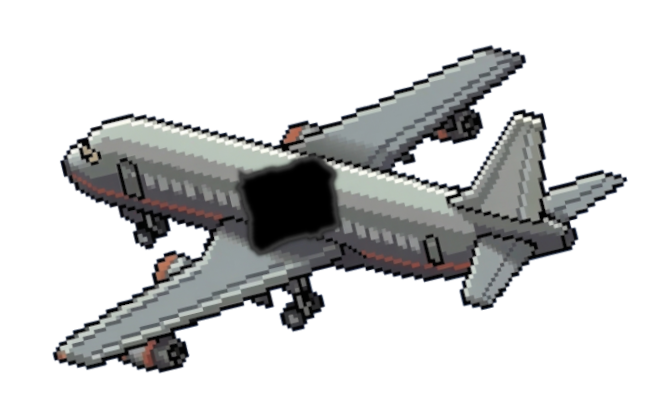
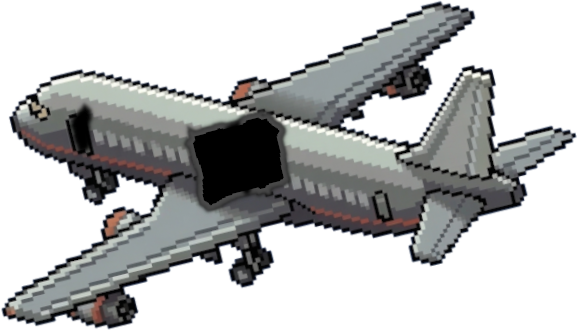
tweaked fuselage rescue gameplay

diff --git a/src/choplifter/mission_projectiles.py b/src/choplifter/mission_projectiles.py
@@ -289,6 +289,18 @@ def _record_airport_elevated_terminal_impact(*, mission: MissionState, compound:
     mission.airport_terminal_impact_sparks = events
 
 
+def _is_airport_elevated_terminal_compound(*, mission: MissionState, compound: object) -> bool:
+    mission_id = str(getattr(mission, "mission_id", "")).lower()
+    if mission_id not in ("airport", "airport_special_ops"):
+        return False
+    compounds = list(getattr(mission, "compounds", []) or [])
+    if not compounds:
+        return False
+    elevated_y = min(float(getattr(c.pos, "y", 0.0)) for c in compounds if getattr(c, "pos", None) is not None)
+    compound_y = float(getattr(getattr(compound, "pos", None), "y", 0.0))
+    return abs(compound_y - elevated_y) <= 1.0
+
+
 def _hits_circle_or_swept(*, previous: Vec2, current: Vec2, center: Vec2, radius: float) -> bool:
     """Return True when either endpoint or the movement segment intersects the circle."""
     if _hits_circle(current, center, radius=radius) or _hits_circle(previous, center, radius=radius):
@@ -920,18 +932,42 @@ def _update_projectiles(
 
         # Compound collision (player projectiles only).
         for c in mission.compounds:
-            if c.health <= 0:
+            is_airport_elevated = _is_airport_elevated_terminal_compound(mission=mission, compound=c)
+            if c.health <= 0 and not is_airport_elevated:
                 continue
             if c.contains_point(p.pos):
-                if p.kind is ProjectileKind.BULLET:
-                    c.health -= 12.0
-                elif p.kind is ProjectileKind.BOMB:
-                    c.health -= 40.0
+                did_damage_structure = False
+                is_fuselage = hasattr(mission, "airport_fuselage_compound_id") and getattr(c, "compound_id", None) == getattr(mission, "airport_fuselage_compound_id", None)
+                damage_amt = 0.0
+                if c.health > 0:
+                    if p.kind is ProjectileKind.BULLET:
+                        c.health -= 12.0
+                        damage_amt = 12.0
+                        did_damage_structure = True
+                    elif p.kind is ProjectileKind.BOMB:
+                        c.health -= 40.0
+                        damage_amt = 40.0
+                        did_damage_structure = True
+                    else:
+                        continue
                 else:
-                    continue
-                _record_airport_elevated_terminal_impact(mission=mission, compound=c, projectile=p)
-                _apply_airport_elevated_passenger_hit(mission=mission, compound=c, projectile=p)
-                _log_compound_health_if_needed(c, logger, reason="hit")
+                    if p.kind not in (ProjectileKind.BULLET, ProjectileKind.BOMB):
+                        continue
+                    # If already zero, still count damage for fuselage
+                    if p.kind is ProjectileKind.BULLET:
+                        damage_amt = 12.0
+                    elif p.kind is ProjectileKind.BOMB:
+                        damage_amt = 40.0
+                # Track cumulative fuselage damage
+                if is_fuselage and damage_amt > 0.0:
+                    prev = float(getattr(mission, "airport_fuselage_damage_taken", 0.0))
+                    mission.airport_fuselage_damage_taken = prev + damage_amt
+
+                if is_airport_elevated:
+                    _record_airport_elevated_terminal_impact(mission=mission, compound=c, projectile=p)
+                    _apply_airport_elevated_passenger_hit(mission=mission, compound=c, projectile=p)
+                if did_damage_structure:
+                    _log_compound_health_if_needed(c, logger, reason="hit")
                 p.alive = False
                 break
 
@@ -950,6 +986,13 @@ def _update_projectiles(
                     mission.stats.kia_by_enemy += 1
                 else:
                     mission.stats.kia_by_player += 1
+                # Play random scream SFX (male/female), matching elevated logic
+                audio = getattr(mission, "audio", None)
+                if audio is not None and hasattr(audio, "play_hostage_scream"):
+                    try:
+                        audio.play_hostage_scream()
+                    except Exception:
+                        pass
                 p.alive = False
                 break
 

diff --git a/tests/test_airport_elevated_passenger_kia.py b/tests/test_airport_elevated_passenger_kia.py
@@ -166,6 +166,69 @@ class AirportElevatedPassengerKiaTests(unittest.TestCase):
         self.assertEqual(len(mission.airport_terminal_impact_sparks), 1)
         self.assertFalse(projectile.alive)
 
+    def test_player_bullet_hit_on_open_zero_health_elevated_terminal_still_kias(self) -> None:
+        elevated_left = Compound(
+            pos=Vec2(100.0, 120.0),
+            width=90.0,
+            height=44.0,
+            health=0.0,
+            is_open=True,
+            hostage_start=0,
+            hostage_count=0,
+        )
+        elevated_right = Compound(
+            pos=Vec2(260.0, 120.0),
+            width=90.0,
+            height=44.0,
+            health=0.0,
+            is_open=True,
+            hostage_start=0,
+            hostage_count=0,
+        )
+        lower_terminal = Compound(
+            pos=Vec2(420.0, 180.0),
+            width=90.0,
+            height=44.0,
+            health=100.0,
+            is_open=False,
+            hostage_start=0,
+            hostage_count=0,
+        )
+        projectile = Projectile(
+            kind=ProjectileKind.BULLET,
+            pos=Vec2(130.0, 132.0),
+            vel=Vec2(0.0, 0.0),
+            ttl=1.0,
+        )
+        hostage_state = SimpleNamespace(
+            terminal_pickup_xs=(145.0, 305.0),
+            terminal_remaining=[2, 2],
+            terminal_kia=[0, 0],
+        )
+        mission = self._base_mission(
+            projectile=projectile,
+            compounds=[elevated_left, elevated_right, lower_terminal],
+            hostage_state=hostage_state,
+        )
+
+        heli = SimpleNamespace(ground_y=500.0)
+        helicopter = SimpleNamespace(pos=Vec2(0.0, 0.0), vel=Vec2(0.0, 0.0), facing=None, grounded=False)
+
+        _update_projectiles(
+            mission,
+            0.0,
+            heli,
+            logger=None,
+            helicopter=helicopter,
+            damage_helicopter=lambda *_a, **_k: None,
+        )
+
+        self.assertEqual(hostage_state.terminal_remaining, [1, 2])
+        self.assertEqual(hostage_state.terminal_kia, [1, 0])
+        self.assertEqual(mission.stats.kia_by_player, 1)
+        self.assertEqual(len(mission.airport_terminal_impact_sparks), 1)
+        self.assertFalse(projectile.alive)
+
     def test_player_bullet_hit_on_lower_terminal_does_not_consume_elevated_passengers(self) -> None:
         elevated_left = Compound(
             pos=Vec2(100.0, 120.0),

diff --git a/src/choplifter/airport_fuselage.py b/src/choplifter/airport_fuselage.py
@@ -6,8 +6,8 @@ from typing import Any
 FUSELAGE_DAMAGE_STAGE_INTACT = 0
 FUSELAGE_DAMAGE_STAGE_HALF = 1
 FUSELAGE_DAMAGE_STAGE_TOTAL = 2
-FUSELAGE_DAMAGE_THRESHOLD_HALF = 100.0
-FUSELAGE_DAMAGE_THRESHOLD_TOTAL = 175.0
+FUSELAGE_DAMAGE_THRESHOLD_HALF = 120.0
+FUSELAGE_DAMAGE_THRESHOLD_TOTAL = 240.0
 FUSELAGE_HALF_STAGE_MIN_SECONDS = 0.65
 
 
@@ -49,20 +49,22 @@ def get_airport_fuselage_damage_stage(mission: Any | None) -> int:
         setattr(mission, "airport_fuselage_damage_stage", FUSELAGE_DAMAGE_STAGE_TOTAL)
         return FUSELAGE_DAMAGE_STAGE_TOTAL
 
-    max_health = float(getattr(mission, "airport_fuselage_max_health", 0.0))
-    current_health = max(0.0, float(getattr(fuselage_compound, "health", 0.0)))
-    if max_health <= 0.0:
-        compound_healths = [
-            max(0.0, float(getattr(c, "health", 0.0)))
-            for c in (getattr(mission, "compounds", []) or [])
-        ]
-        observed_peak = max(compound_healths) if compound_healths else current_health
-        max_health = max(1.0, current_health, observed_peak)
-    else:
-        max_health = max(max_health, current_health)
-    setattr(mission, "airport_fuselage_max_health", max_health)
-
-    damage_taken = max(0.0, max_health - current_health)
+    # Use explicit damage counter if present
+    damage_taken = float(getattr(mission, "airport_fuselage_damage_taken", -1.0))
+    if damage_taken < 0.0:
+        max_health = float(getattr(mission, "airport_fuselage_max_health", 0.0))
+        current_health = max(0.0, float(getattr(fuselage_compound, "health", 0.0)))
+        if max_health <= 0.0:
+            compound_healths = [
+                max(0.0, float(getattr(c, "health", 0.0)))
+                for c in (getattr(mission, "compounds", []) or [])
+            ]
+            observed_peak = max(compound_healths) if compound_healths else current_health
+            max_health = max(1.0, current_health, observed_peak)
+        else:
+            max_health = max(max_health, current_health)
+        setattr(mission, "airport_fuselage_max_health", max_health)
+        damage_taken = max(0.0, max_health - current_health)
     mission_time = float(getattr(mission, "elapsed_seconds", 0.0))
     stage_now = FUSELAGE_DAMAGE_STAGE_INTACT
     if damage_taken >= float(FUSELAGE_DAMAGE_THRESHOLD_HALF):

diff --git a/src/choplifter/render/world.py b/src/choplifter/render/world.py
@@ -99,8 +99,8 @@ from ..mission_helpers import sentiment_band_label, sentiment_contributions
 _airport_fuselage_half_image_cache: pygame.Surface | None | bool = False
 _airport_fuselage_total_image_cache: pygame.Surface | None | bool = False
 
-FUSELAGE_BACKDROP_OFFSET_X = -245
-FUSELAGE_BACKDROP_OFFSET_Y = -175
+FUSELAGE_BACKDROP_OFFSET_X = -190 + 40   # Moved 40px right
+FUSELAGE_BACKDROP_OFFSET_Y = -195 + 35    # Lowered by 35px
 FUSELAGE_BACKDROP_FADE_WIDTH_PX = 220.0
 
 
@@ -783,8 +783,11 @@ def _draw_compounds(screen: pygame.Surface, mission: MissionState, *, camera_x: 
                 draw_rect.center = r.center
                 draw_rect.y = r.bottom - square_side
             if not is_fuselage_terminal:
-                pygame.draw.rect(screen, body_color, draw_rect, border_radius=2)
-                pygame.draw.rect(screen, edge_color, draw_rect, 2, border_radius=2)
+                if not c.is_open:
+                    pygame.draw.rect(screen, body_color, draw_rect, border_radius=2)
+                    pygame.draw.rect(screen, edge_color, draw_rect, 2, border_radius=2)
+                else:
+                    pygame.draw.rect(screen, edge_color, draw_rect, 1, border_radius=2)
 
             if is_fuselage_terminal:
                 if not fuselage_backdrop_drawn:
@@ -1015,10 +1018,7 @@ def _draw_compounds(screen: pygame.Surface, mission: MissionState, *, camera_x: 
                         pygame.draw.circle(screen, (30, 34, 40), (px, py - 10), 2, 1)
 
             # Preserve destroyed/open gameplay readability.
-            if c.is_open:
-                breach = pygame.Rect(r.centerx - 14, r.bottom - 16, 28, 16)
-                pygame.draw.rect(screen, (52, 48, 42), breach)
-                pygame.draw.rect(screen, (92, 84, 70), breach, 1)
+            # Keep unlocked airport rescue LZs visually clear (no extra open-state slab overlay).
             continue
 
     if is_airport_special:

diff --git a/src/choplifter/audio.py b/src/choplifter/audio.py
@@ -234,7 +234,6 @@ class AudioBank:
         """Play a random male or female scream SFX if available."""
         # Lazy-load scream sounds if not already loaded
         if not hasattr(self, '_hostage_scream_sounds'):
-            import os
             module_dir = Path(__file__).resolve().parent
             asset_dir = module_dir / "assets"
             male = _try_load_asset_sound(asset_dir / "male-scream.ogg")
@@ -244,6 +243,16 @@ class AudioBank:
             return
         sound = random.choice(self._hostage_scream_sounds)
         self._play(sound, bus="sfx")
+
+    def play_female_scream(self) -> None:
+        """Play only the female scream SFX if available."""
+        if not hasattr(self, '_female_scream_sound'):
+            module_dir = Path(__file__).resolve().parent
+            asset_dir = module_dir / "assets"
+            female = _try_load_asset_sound(asset_dir / "female-scream.ogg")
+            self._female_scream_sound = female
+        if self._female_scream_sound is not None:
+            self._play(self._female_scream_sound, bus="sfx")
     def play_midair_collision(self) -> None:
         # Use SFX channel 6 (never interrupted)
         if self.mixer is not None:

diff --git a/src/choplifter/mission_tech.py b/src/choplifter/mission_tech.py
@@ -209,8 +209,8 @@ def update_mission_tech(
 				tech_state.fall_vel_x = random.uniform(-60.0, 60.0)
 				tech_state.fall_vel_y = random.uniform(-80.0, -120.0)
 				tech_state.fall_angle = 0.0
-				if audio is not None and hasattr(audio, "play_hostage_scream"):
-					audio.play_hostage_scream()
+				if audio is not None and hasattr(audio, "play_female_scream"):
+					audio.play_female_scream()
 				return tech_state
 		else:
 			tech_state.fall_airborne_timer = 0.0
